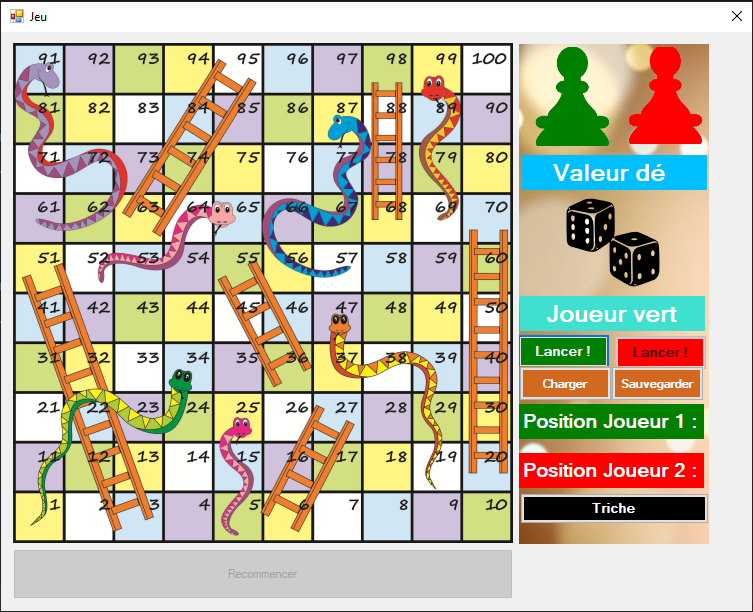
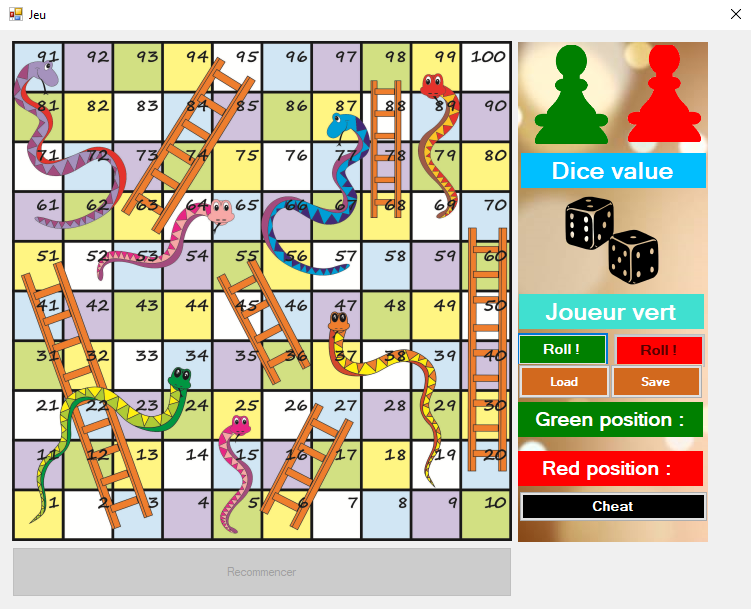
Correction dans le load joueur vert en green pawn

diff --git a/Snake_Ladder_Game/Form1.cs b/Snake_Ladder_Game/Form1.cs
@@ -88,7 +88,7 @@ namespace Snake_Ladder_Game
             if (flag==0)
             {
                 bRoll2.Enabled = false;
-                lJoueur.Text = "Joueur vert";
+                lJoueur.Text = "Green Pawn";
             }
             pbPawn2B.Visible = false;
             pbPawn1B.Visible = false;
